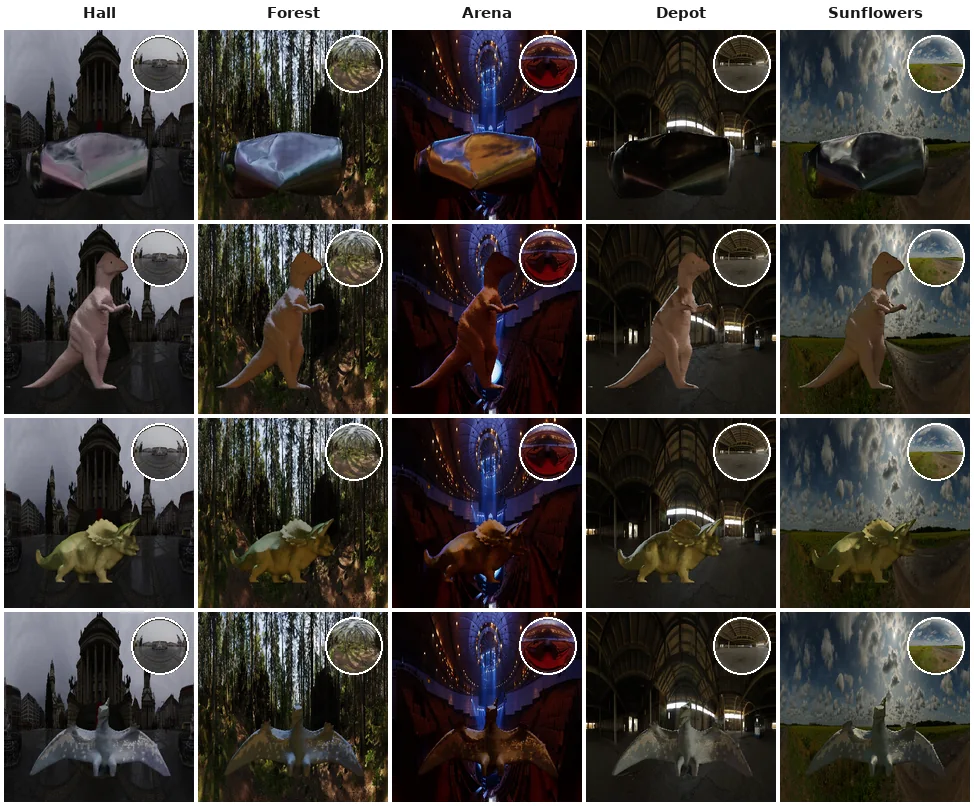
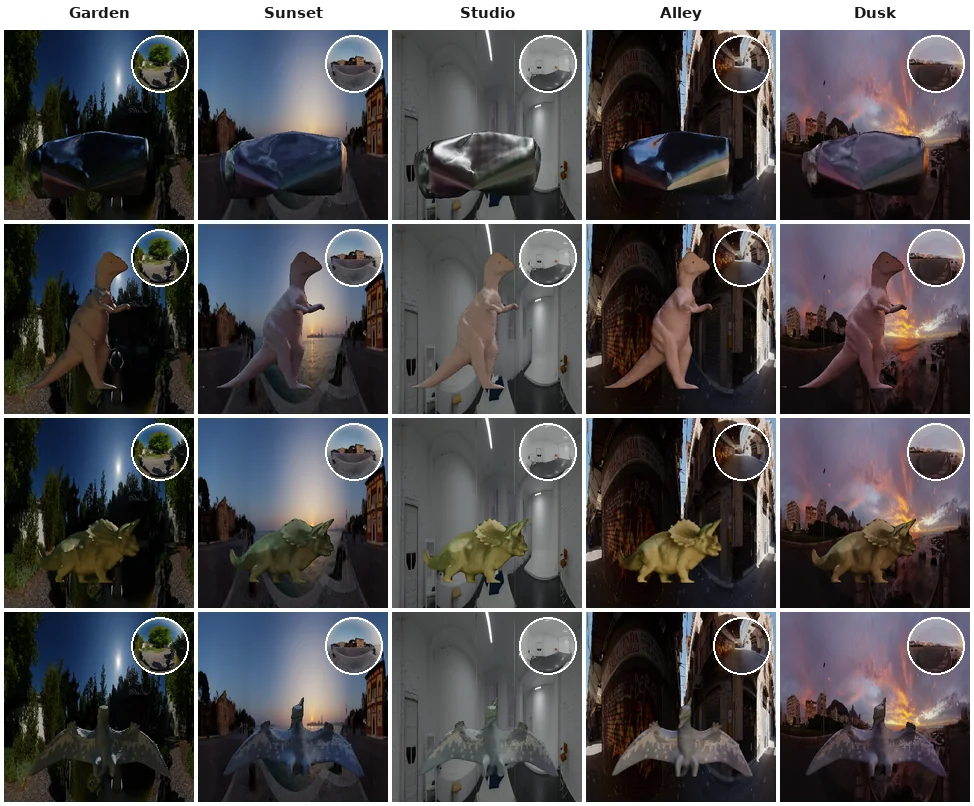
Swap lighting sets 1 and 3
Set 1 now opens on the indoor and overcast environments; the garden, sunset,
studio, alley and dusk group moves to set 3.

diff --git a/index.html b/index.html
@@ -11,13 +11,13 @@
   <link href="https://fonts.googleapis.com/css?family=Google+Sans|Noto+Sans|Castoro"
         rel="stylesheet">
 
-  <link rel="stylesheet" href="./static/css/bulma.min.css?v=11">
+  <link rel="stylesheet" href="./static/css/bulma.min.css?v=12">
   <link rel="stylesheet" href="https://cdnjs.cloudflare.com/ajax/libs/font-awesome/5.15.3/css/all.min.css" />
-  <link rel="stylesheet" href="./static/css/index.css?v=11">
+  <link rel="stylesheet" href="./static/css/index.css?v=12">
 
-  <script defer src="./static/js/fontawesome.all.min.js?v=11"></script>
-  <script defer src="./static/js/index.js?v=11"></script>
-  <script defer src="./static/js/relight.js?v=11"></script>
+  <script defer src="./static/js/fontawesome.all.min.js?v=12"></script>
+  <script defer src="./static/js/index.js?v=12"></script>
+  <script defer src="./static/js/relight.js?v=12"></script>
 </head>
 <body>
 
@@ -93,7 +93,7 @@
           reflectance data.
         </p>
       </div>
-      <div class="figure-frame"><img src="./static/image/teaser.webp?v=11" alt="Teaser"></div>
+      <div class="figure-frame"><img src="./static/image/teaser.webp?v=12" alt="Teaser"></div>
     </div>
   </div>
 </section>
@@ -117,10 +117,10 @@
     </div>
 
     <p class="panel-title">Estimated PBR maps</p>
-    <div class="figure-frame pbr-frame"><img id="resPbr" src="./static/image/results/scene29_pbr.webp?v=11" alt="Estimated PBR maps"></div>
+    <div class="figure-frame pbr-frame"><img id="resPbr" src="./static/image/results/scene29_pbr.webp?v=12" alt="Estimated PBR maps"></div>
 
     <p class="panel-title">Relighting under a held-out display pattern</p>
-    <div class="figure-frame"><img id="resRelight" src="./static/image/results/scene29_relight.webp?v=11" alt="Relighting comparison"></div>
+    <div class="figure-frame"><img id="resRelight" src="./static/image/results/scene29_relight.webp?v=12" alt="Relighting comparison"></div>
   </div>
 
   <!-- ===================== Interactive relighting ===================== -->
@@ -147,18 +147,18 @@
       <span class="axis-label">Lighting</span>
       <div class="scene-tabs" id="envLightTabs"></div>
     </div>
-    <div class="figure-frame"><img id="envImg" src="./static/image/envgrid/o1_l1.webp?v=11" alt="Environment relighting grid"></div>
+    <div class="figure-frame"><img id="envImg" src="./static/image/envgrid/o1_l1.webp?v=12" alt="Environment relighting grid"></div>
   </div>
 
   <!-- ===================== Dynamic scene ===================== -->
   <h2>Dynamic scene</h2>
   <div class="video-pair">
     <figure>
-      <video src="./static/video/dynamic_capture.mp4?v=11" autoplay loop muted playsinline></video>
+      <video src="./static/video/dynamic_capture.mp4?v=12" autoplay loop muted playsinline></video>
       <figcaption>Capture</figcaption>
     </figure>
     <figure>
-      <video src="./static/video/dynamic_relit.mp4?v=11" autoplay loop muted playsinline></video>
+      <video src="./static/video/dynamic_relit.mp4?v=12" autoplay loop muted playsinline></video>
       <figcaption>Relit, frame by frame</figcaption>
     </figure>
   </div>
@@ -171,7 +171,7 @@
     <li>A quarter-wave plate on the lens trades <em>S</em><sub>2</sub> for <em>S</em><sub>3</sub>, making circular polarization measurable.</li>
     <li>Per channel: unpolarized = <em>S</em><sub>0</sub>&minus;<em>S</em><sub>1</sub>, LP = &minus;<em>S</em><sub>1</sub>, CP = <em>S</em><sub>3</sub>/<em>S</em><sub>0</sub>.</li>
   </ul>
-  <div class="figure-frame"><img src="./static/image/imaging_system.webp?v=11" alt="Display-camera imaging system"></div>
+  <div class="figure-frame"><img src="./static/image/imaging_system.webp?v=12" alt="Display-camera imaging system"></div>
 
   <!-- ===================== Method ===================== -->
   <h2>Feed-forward inverse rendering</h2>
@@ -180,7 +180,7 @@
     <li>Attention alternates over space, spectral channel, polarization state and frames.</li>
     <li>One forward pass &rarr; normal, albedo, roughness, metallicity.</li>
   </ul>
-  <div class="figure-frame"><img src="./static/image/overview.webp?v=11" alt="Network overview"></div>
+  <div class="figure-frame"><img src="./static/image/overview.webp?v=12" alt="Network overview"></div>
 
   <!-- ===================== Dataset ===================== -->
   <h2>Expanded pBRDF dataset</h2>
@@ -191,10 +191,10 @@
   </ul>
   <div class="columns is-centered">
     <div class="column is-three-fifths">
-      <div class="figure-frame"><img src="./static/image/expand_data.webp?v=11" alt="pBRDF expansion pipeline"></div>
+      <div class="figure-frame"><img src="./static/image/expand_data.webp?v=12" alt="pBRDF expansion pipeline"></div>
     </div>
   </div>
-  <div class="figure-frame"><img src="./static/image/pbrdf_expansion.webp?v=11" alt="Synthesized pBRDF instances"></div>
+  <div class="figure-frame"><img src="./static/image/pbrdf_expansion.webp?v=12" alt="Synthesized pBRDF instances"></div>
 
   <!-- ===================== Citation ===================== -->
   <h2 id="citation">Citation</h2>

diff --git a/static/js/relight.js b/static/js/relight.js
@@ -8,7 +8,7 @@
 (function () {
   'use strict';
 
-  var ASSET_V = '?v=11';
+  var ASSET_V = '?v=12';
 
   var SCENES = [
     { label: 'Cat', key: 'scene29' },

diff --git a/static/js/index.js b/static/js/index.js
@@ -94,7 +94,7 @@
     });
   }
 
-  var ASSET_V = '?v=11';
+  var ASSET_V = '?v=12';
 
   var SCENES = [
     { label: 'Cat', key: 'scene29' },
